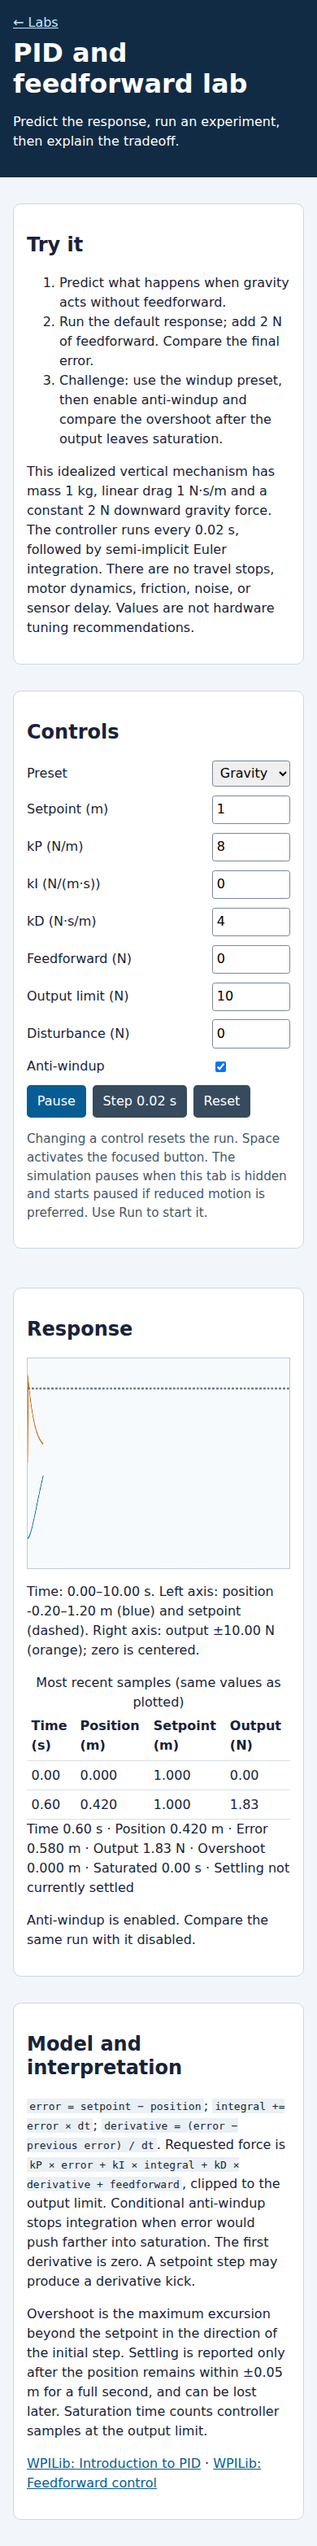
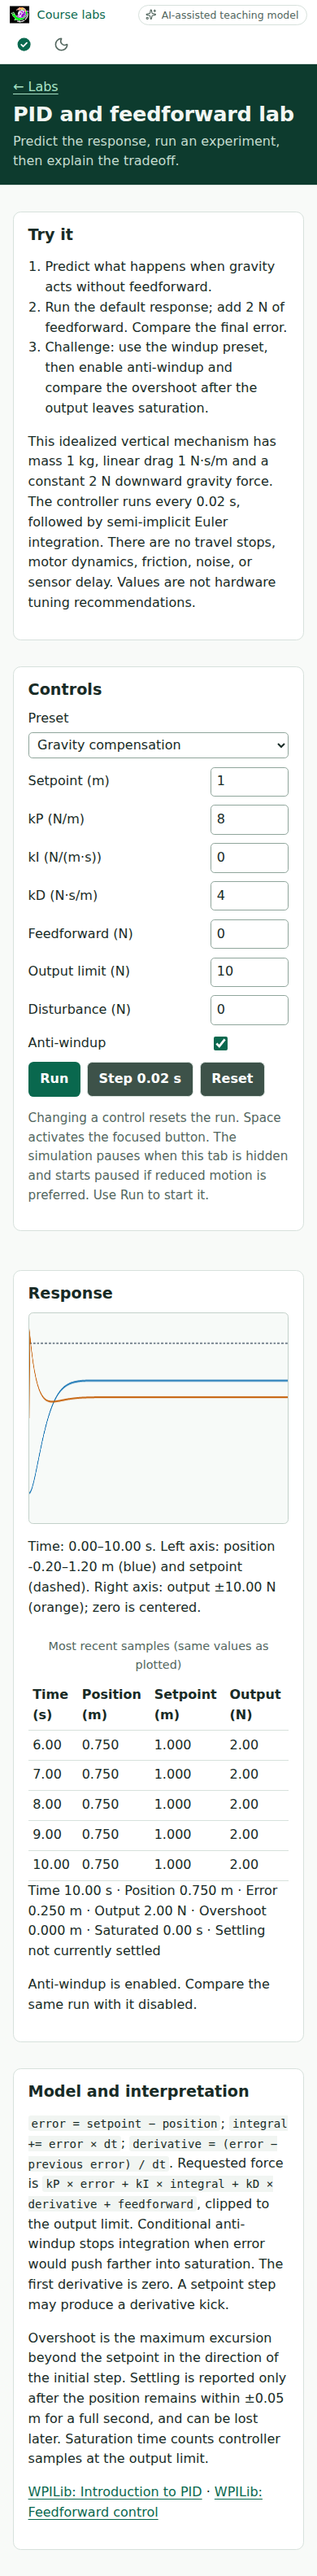
Refresh real UI screenshots and record release verification

Changed region(s): [[0.0, 0.0, 1.0, 0.9917], [0.0308, 0.7748, 0.0615, 0.8058]]

diff --git a/docs/guides/lab-tour.md b/docs/guides/lab-tour.md
@@ -8,16 +8,32 @@ Each lab pairs a question with controls, a visual result, and numbers you can in
 
 Open the [swerve lab](../labs/swerve.html ':ignore'). With forward translation and zero rotation, every module should have the same velocity. Select rotation, disable steering optimization for the first comparison, and predict each corner's direction. Enable optimization and explain why the same physical velocity can use a negative wheel speed and a different steering angle.
 
-<figure><a href="../media/screenshots/swerve-desktop.png"><img src="../media/screenshots/swerve-desktop.png" alt="Actual desktop swerve lab showing all four module velocity arrows pointing forward and a table of 1 meter per second, zero degree module states" width="720" loading="lazy"></a><figcaption>Unedited browser capture of this repository's lab at commit 9ea99c1. The diagram describes ideal kinematics, not tire or motor dynamics. Select the image to inspect the full capture.</figcaption></figure>
+<figure><a href="../media/screenshots/swerve-desktop.png"><img src="../media/screenshots/swerve-desktop.png" alt="Actual desktop swerve lab showing tangential module velocity arrows for pure rotation and the corresponding module state table" width="720" loading="lazy"></a><figcaption>Unedited browser capture of this repository's lab at commit e09a4dc. The diagram describes ideal kinematics, not tire or motor dynamics. Select the image to inspect the full capture.</figcaption></figure>
 
 ## PID on a phone
 
 Open the [PID lab](../labs/pid.html ':ignore'). The default plant has a constant downward load. Predict its final position with proportional feedback and no feedforward, then compare with the response after adding the stated gravity-compensation force. Use the sample table alongside the graph: error, requested output, and saturation are different quantities.
 
-<figure><a href="../media/screenshots/pid-mobile.png"><img src="../media/screenshots/pid-mobile.png" alt="Actual mobile PID lab with vertically stacked controls, response graph, numerical samples, and model explanation" width="260" loading="lazy"></a><figcaption>Unedited mobile browser capture of the running lab at commit 9ea99c1. Exact displayed values depend on capture time; use pause and single-step to make your own repeatable comparison.</figcaption></figure>
+<figure><a href="../media/screenshots/pid-mobile.png"><img src="../media/screenshots/pid-mobile.png" alt="Actual mobile PID lab with vertically stacked controls, response graph, numerical samples, and model explanation" width="260" loading="lazy"></a><figcaption>Unedited mobile browser capture after resetting and stepping the lab 500 times at commit e09a4dc. The model is paused at ten simulated seconds; it reports 0.750 m position and a 0.250 m error with these default inputs. This is a teaching-model result, not a hardware measurement.</figcaption></figure>
+
+## Experiment without leaving the lesson
+
+The [PID lesson](../frc/3-Closed_Loop_Control/2-Basics_of_PID.md) contains the working lab. Its controls, model description and numerical results stay beside the explanation. The embedded lab follows the lesson's theme; use **Open full lab** for a larger workspace. Loading an embed does not automatically mark that lab complete.
+
+![Actual embedded PID lab inside a lesson, with near-black styling and purple controls](../media/screenshots/embedded-pid-dark.png)
+
+*Unedited desktop viewport capture of this application at commit e09a4dc. This is the actual teaching model rendered in the lesson, not a photograph of a robot.*
+
+## Find a concept or code pattern
+
+Open search with the magnifying glass, **Ctrl/⌘ K**, or `/`. Try `SubsystemIOSim`, `interpolation tables` or a symptom such as `robot not moving`. Use the section filter, arrow keys and Enter to open a result. Escape closes the palette; the clear icon resets the query. Searches stay in your browser.
+
+![Actual dark search palette showing interpolation results, breadcrumbs, highlighted terms and keyboard hints](../media/screenshots/search-dark.png)
+
+*Unedited desktop viewport capture at commit e09a4dc, searching the actual generated lesson index.*
 
 ## Investigate a real recording
 
 The [log explorer](../labs/log.html ':ignore') loads a small excerpt from a real 2024 Team 1257 recording. Start with [the source exercise](../robots/2024-log.md), identify the enabled interval, and compare the separate signal timestamps. This is a different kind of evidence from the synthetic PID and odometry models. The excerpt cannot establish transient peaks or a cause for a voltage change.
 
-These screenshots were produced by the [desktop/mobile CI browser run](https://github.com/FRC1257/robotics-training/actions/runs/42945983264), rather than generated as mockups. Their hashes and capture revision are retained in the repository's source inventory. Current labs may include additional navigation and progress controls.
+These screenshots were produced by the [desktop/mobile CI browser run](https://github.com/FRC1257/robotics-training/actions/runs/42957979637), rather than generated as mockups. Their hashes and capture revision are retained in the repository's source inventory. The captures identify the exact tested revision.

diff --git a/research_sources/ui-review/verification-2026-11-10.md b/research_sources/ui-review/verification-2026-11-10.md
@@ -1,0 +1,9 @@
+# UI and curriculum verification — November 10, 2026
+
+Verified application revision: `e09a4dcb408f41a8ae33aefe875ee1a37a4a92d5`. [Complete CI run](https://github.com/FRC1257/robotics-training/actions/runs/42957979637) passed all three jobs: 41 Node tests, 16 WPILib starter Java tests, and 80 Chromium desktop/mobile browser tests. Twelve introductory Java program groups plus the inline Classes sequence compile; PID arithmetic checks pass.
+
+All generated article pages have one H1, unique element IDs and no raw recognized callout markers. Build checks resolve local links and assets under root and project-prefixed deployments. Browser checks cover automatic visit completion and stable dates, keyboard search and failed-index retry, knowledge checks/import validation, light/dark representative lessons, all seven standalone labs and all seven embedded labs with theme/height synchronization and narrow-view overflow checks. The current screenshots are unedited artifacts from this run; hashes and capture details are in `research_sources/screenshots.json`.
+
+Claude Code directly authored the UI changes through restricted Read/Edit/Write/Glob/Grep sessions; the CLI reported `claude-opus-5-5`, successful results and no denied tools. Claude also fixed issues found by integration testing: native search Escape handling, title/ID collisions, chart themes and the embedded motion table’s overflow. The integrating agent authored tests and verified the rendered artifacts.
+
+Content review includes seven new architecture lessons and seven robot-type lessons mapping fifteen original research concepts. A second read-only review corrected sensor fault assumptions, homing, turret geometry, continuous motion checks and one binder locator. The rewritten motion-profile Java excerpt compiled against WPILib 2026.2.1 and the worked profile values were checked against the lab model. These checks do not establish physical robot behavior or completed research studies for the entire cohort. PostHog remains unconfigured, as requested.

diff --git a/research_sources/ui-review/claude-round2.md b/research_sources/ui-review/claude-round2.md
@@ -1,5 +1,7 @@
 # Claude UI review and implementation, round 2
 
+> Release verification update: the notes below describe Claude’s read/write-only sessions. The integrating agent subsequently built the site and verified 41 Node tests, 16 Java tests and 80 Chromium desktop/mobile tests at revision `e09a4dc`. See [the verification record](verification-2026-11-10.md).
+
 Claude made these changes directly in the shared checkout using only Read/Glob/Grep/Edit/Write. **Nothing has been built, tested, or rendered.** No shell, browser, or git commands were run. Everything below about the new UI comes from reading source; the only visual evidence is from screenshots of the *previous* UI.
 
 ## Evidence used
